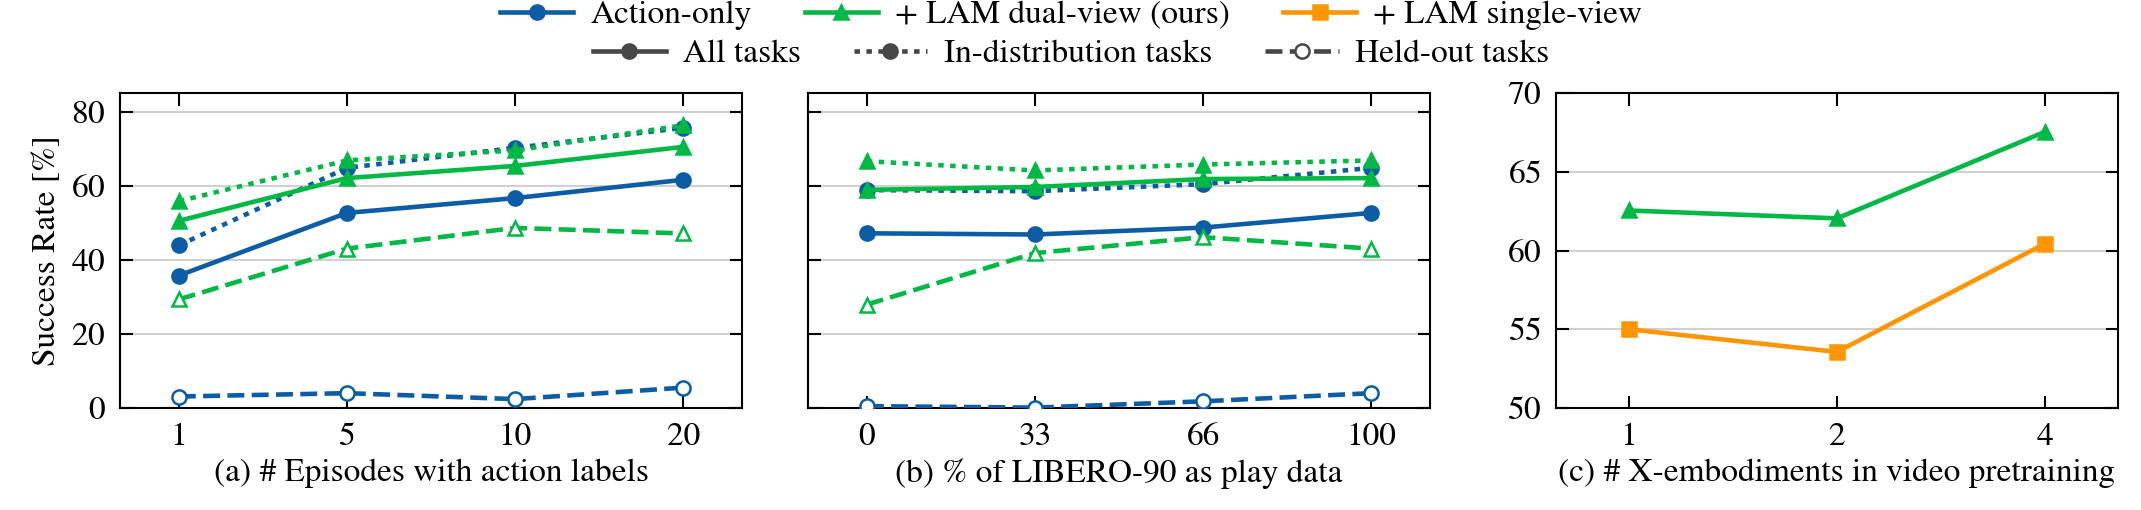
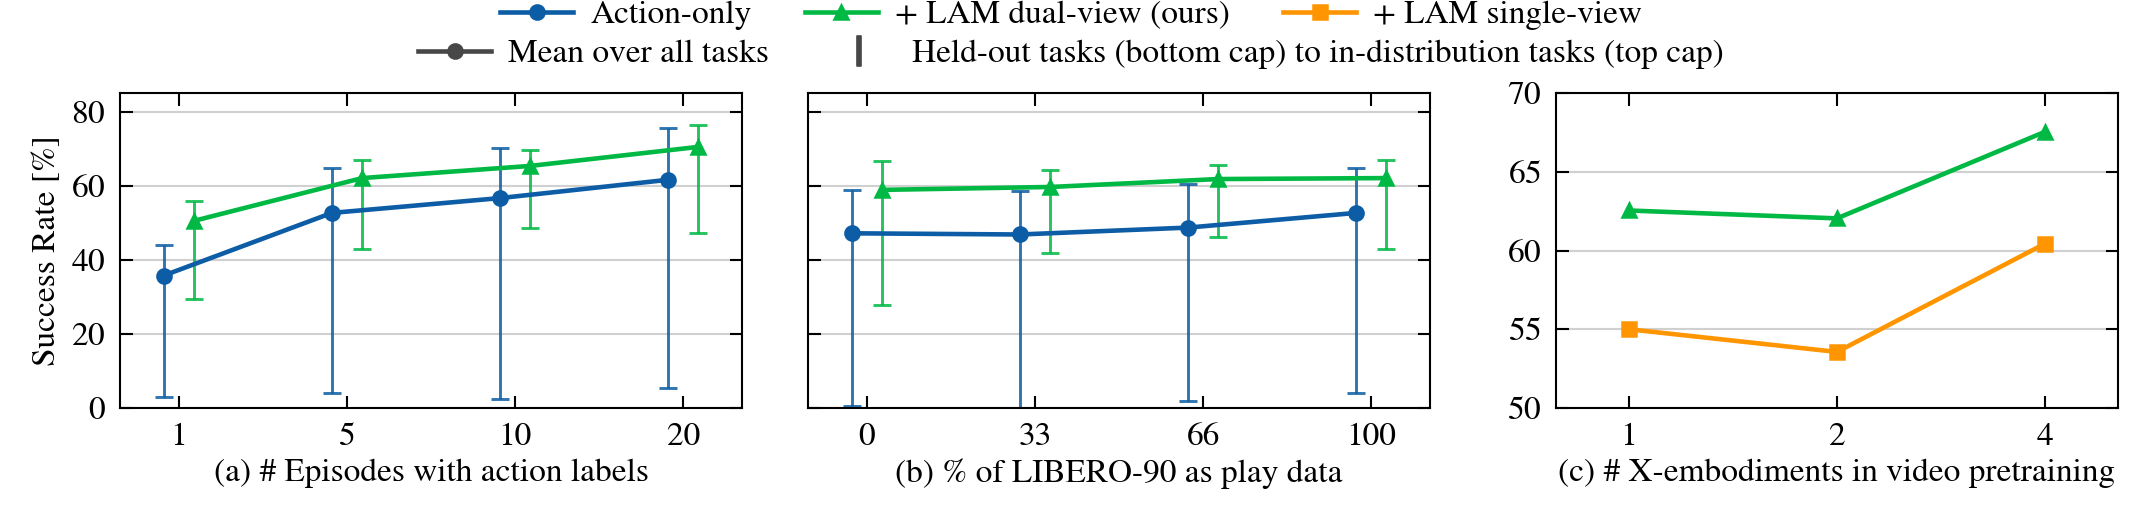
libero_scaling_row: (a)/(b) splits as a range bar per point instead of six lines
The mean stays the line; the in-distribution and held-out values become the
top and bottom caps of a thin vertical bar at each point, methods dodged by
+-0.09 so the bars do not overprint. --splits band keeps the translucent-band
alternative (same edges). Legend row 2 keys the bar explicitly; the caption
must say these are not error bars.

Claude-Session: https://claude.ai/code/session_018iqPdRCpMdDBJKapJddPky

diff --git a/plot_libero_scaling_row.py b/plot_libero_scaling_row.py
@@ -4,12 +4,18 @@ scaling table (tab:data_scaling_combined).
 Reads ``results/libero_scaling_row.csv`` and draws one row of three panels, one
 per sweep -- (a) action-labeled Panda episodes per task, (b) % of LIBERO-90
 used as play data, (c) number of cross-embodiments in the video pretraining
-mix. Panels (a) and (b) draw three curves per method: the 40-task total (solid,
-filled markers), the in-distribution split (dotted, filled) and the held-out
-split (dashed, hollow). Panel (c) draws the total only, for the dual-view and
-the single-view (sideview-only teacher, ``sideview_sr``) arm. The total is the
-32/8 task-weighted mean of the two splits, derived here rather than stored, the
-way libero_xemb_sweep's Total is. Run with no arguments:
+mix. Panels (a) and (b) draw, per method, the 40-task total as a line and the
+two splits as a thin vertical range bar at each point: its top cap is the
+in-distribution value, its bottom cap the held-out value, the mean marker sits
+on it, and the two methods are dodged sideways so the bars do not overprint.
+All three numbers are on the page with two lines per panel rather than six.
+``--splits band`` draws the splits as a translucent band instead (same edges);
+it is less busy still but the two methods' bands overlap into a blend over
+most of the panel. NOT error bars -- the caption has to say so. Panel (c)
+draws the total only, for the dual-view and the single-view
+(sideview-only teacher, ``sideview_sr``) arm. The total is the 32/8
+task-weighted mean of the two splits, derived here rather than stored, the way
+libero_xemb_sweep's Total is. Run with no arguments:
 
     python plot_libero_scaling_row.py
 
@@ -35,12 +41,11 @@ video pretraining mix at all; panel (c)'s single-view arm is the sideview-only
 teacher at the same recipe; and the cells at 5 episodes, 100% play data and
 2 cross-embodiments (dual-view) are one and the same run.
 
-TWO FACTORS, TWO CHANNELS (README.md). Method is colour plus marker shape, the
-split is line style plus marker fill, and each factor gets its own legend row
-so a reader can hold one fixed and scan the other. Total is the solid style so
-that panel (c), which shows totals alone, reads with the same key. The three
-panels (a) and (b) share one 0-85 y axis, labelled once on the left; (c)
-is zoomed to 50-70 and carries its own tick labels. The x positions are categorical and
+TWO FACTORS, TWO CHANNELS (README.md). Method is colour plus marker shape; the
+split is line versus range bar (the line is the total, the bar spans held-out
+to in-distribution), and each factor gets its own legend row. Panels (a) and (b) share one
+0-85 y axis, labelled once on the left; (c) is zoomed to 50-70 and carries its
+own tick labels. The x positions are categorical and
 evenly spaced -- the sweeps are not linear in their own units (1/5/10/20
 episodes, 1/2/4 embodiments) and the table reads them as steps.
 """
@@ -60,12 +65,16 @@ OUT_NAME = "libero_scaling_row_science"
 METHODS = ["action_only_sr", "video_sr", "sideview_sr"]
 METHOD_LABELS = {"action_only_sr": "Action-only", "video_sr": "+ LAM dual-view (ours)",
                  "sideview_sr": "+ LAM single-view"}
-# Split channel: total solid / filled, in-distribution dotted / filled, held-out
-# dashed / hollow. "total" is derived (see N_TASKS), the other two are stored.
-SPLIT_LINE = {"total": "-", "nonh": (0, (1.2, 1.4)), "h": "--"}
-SPLIT_FILLED = {"total": True, "nonh": True, "h": False}
-SPLIT_LABELS = {"total": "All tasks", "nonh": "In-distribution tasks", "h": "Held-out tasks"}
-PANEL_SPLITS = {"budget": ["total", "nonh", "h"], "play": ["total", "nonh", "h"], "xemb": ["total"]}
+# Split channel: the total is the line (solid, filled markers); the two stored
+# splits are the edges of a band in the same colour -- in-distribution on top,
+# held-out at the bottom. "total" is derived (see N_TASKS).
+PANEL_BAND = {"budget": True, "play": True, "xemb": False}
+BAND_ALPHA = 0.18
+# --splits whisker: instead of a band, a thin vertical range bar per point from
+# the held-out value (bottom cap) to the in-distribution value (top cap), the
+# mean marker sitting on it; the two methods are dodged by +-DODGE so their
+# bars do not overprint.
+DODGE = 0.09
 N_TASKS = {"nonh": 32, "h": 8}
 
 SWEEPS = ["budget", "play", "xemb"]
@@ -121,16 +130,20 @@ def series(sub, m, sp, xs):
 
 
 def main():
-    argparse.ArgumentParser(
+    ap = argparse.ArgumentParser(
         description=__doc__,
-        formatter_class=argparse.RawDescriptionHelpFormatter).parse_args()
+        formatter_class=argparse.RawDescriptionHelpFormatter)
+    ap.add_argument("--splits", choices=["band", "whisker"], default="whisker",
+                    help="how (a)/(b) show the two splits around the mean line")
+    ap.add_argument("--out", default=OUT_NAME, help="output stem (default %(default)s)")
+    args = ap.parse_args()
     df = load()
 
     print("\n  LIBERO scaling sweeps, success rate %  (all 40 tasks | in-distribution / held-out)")
     for sw in SWEEPS:
         sub = df[df["sweep"] == sw]
         xs = sorted(sub["x"].unique())
-        print(f"    {SWEEP_XLABELS[sw]}   (plotted: {', '.join(SPLIT_LABELS[s] for s in PANEL_SPLITS[sw])})")
+        print(f"    {SWEEP_XLABELS[sw]}   (plotted: {'mean line + split band' if PANEL_BAND[sw] else 'mean line only'})")
         for m in METHODS:
             if sub[m].isna().all():
                 continue
@@ -146,11 +159,10 @@ def main():
     panel_in = (w - YLABEL_IN - 2 * GUTTER_IN - RIGHT_PAD_IN) / 3
     fig = plt.figure(figsize=(w, h))
 
-    def line_kw(mi, sp):
-        return dict(color=style_for(mi), linestyle=SPLIT_LINE[sp],
+    def line_kw(mi):
+        return dict(color=style_for(mi), linestyle="-",
                     marker=style.MARKERS[mi], markersize=3.4, markeredgewidth=0.6,
-                    markerfacecolor=style_for(mi) if SPLIT_FILLED[sp] else "white",
-                    markeredgecolor=style_for(mi), linewidth=1.1)
+                    markerfacecolor=style_for(mi), markeredgecolor=style_for(mi), linewidth=1.1)
 
     for ci, sw in enumerate(SWEEPS):
         sub = df[df["sweep"] == sw]
@@ -162,9 +174,18 @@ def main():
         for mi, m in enumerate(METHODS):
             if sub[m].isna().all():
                 continue   # (c) has no action-only arm; (a)/(b) no single-view arm
-            for sp in PANEL_SPLITS[sw]:
-                y = series(sub, m, sp, xs)
-                ax.plot(pos, 100 * np.asarray(y, float), zorder=3, **line_kw(mi, sp))
+            px = pos + ((mi - 0.5) * 2 * DODGE if PANEL_BAND[sw] and args.splits == "whisker" else 0.0)
+            y = 100 * np.asarray(series(sub, m, "total", xs), float)
+            if PANEL_BAND[sw]:
+                lo = 100 * np.asarray(series(sub, m, "h", xs), float)
+                hi = 100 * np.asarray(series(sub, m, "nonh", xs), float)
+                if args.splits == "band":
+                    ax.fill_between(px, lo, hi, color=style_for(mi), alpha=BAND_ALPHA,
+                                    linewidth=0, zorder=2)
+                else:
+                    ax.errorbar(px, y, yerr=[y - lo, hi - y], fmt="none", ecolor=style_for(mi),
+                                elinewidth=0.7, capsize=2.2, capthick=0.7, alpha=0.85, zorder=2)
+            ax.plot(px, y, zorder=3, **line_kw(mi))
         ax.set_xlim(-0.35, len(xs) - 0.65)
         ax.set_xticks(pos)
         ax.set_xticklabels([str(int(x)) for x in xs])
@@ -179,23 +200,30 @@ def main():
         elif sw not in PANEL_YLIM:
             ax.tick_params(axis="y", labelleft=False)   # shares (a)'s scale
 
-    # Two legend rows, one per factor. The method row shows filled markers on a
-    # solid line (the total's look); the split row is drawn in neutral ink so
-    # it reads as a style key, not a fourth method.
-    method_handles = [Line2D([], [], label=METHOD_LABELS[m], **line_kw(mi, "total"))
+    # Two legend rows, one per factor. The method row shows the line; the split
+    # row is drawn in neutral ink so it reads as a style key, not a fourth
+    # method: the line is the 40-task mean, the band spans the two splits.
+    from matplotlib.patches import Patch
+    method_handles = [Line2D([], [], label=METHOD_LABELS[m], **line_kw(mi))
                       for mi, m in enumerate(METHODS)]
-    split_handles = [Line2D([], [], color=style.INK_MUTED, linestyle=SPLIT_LINE[sp],
-                            marker="o", markersize=3.4, markeredgewidth=0.6,
-                            markerfacecolor=style.INK_MUTED if SPLIT_FILLED[sp] else "white",
-                            markeredgecolor=style.INK_MUTED, linewidth=1.1, label=SPLIT_LABELS[sp])
-                     for sp in ("total", "nonh", "h")]
+    split_handles = [
+        Line2D([], [], color=style.INK_MUTED, linestyle="-", marker="o", markersize=3.4,
+               markeredgewidth=0.6, markerfacecolor=style.INK_MUTED, markeredgecolor=style.INK_MUTED,
+               linewidth=1.1, label="Mean over all tasks"),
+        Patch(facecolor=style.INK_MUTED, alpha=0.3, linewidth=0,
+              label="Held-out tasks (bottom edge) to in-distribution tasks (top edge)")
+        if args.splits == "band" else
+        Line2D([], [], color=style.INK_MUTED, linestyle="none", marker="$\\mathsf{I}$",
+               markersize=7, markeredgewidth=0.4,
+               label="Held-out tasks (bottom cap) to in-distribution tasks (top cap)"),
+    ]
     kw = dict(loc="upper center", frameon=False, borderaxespad=0, borderpad=0,
               handlelength=2.2, handletextpad=0.5, columnspacing=1.6)
     fig.legend(handles=method_handles, bbox_to_anchor=(0.5, 1.0), ncol=len(method_handles), **kw)
     fig.legend(handles=split_handles, bbox_to_anchor=(0.5, 1.0 - LEGEND_ROW_IN / h),
                ncol=len(split_handles), **kw)
 
-    style.save(fig, OUT_NAME)
+    style.save(fig, args.out)
 
 
 if __name__ == "__main__":
